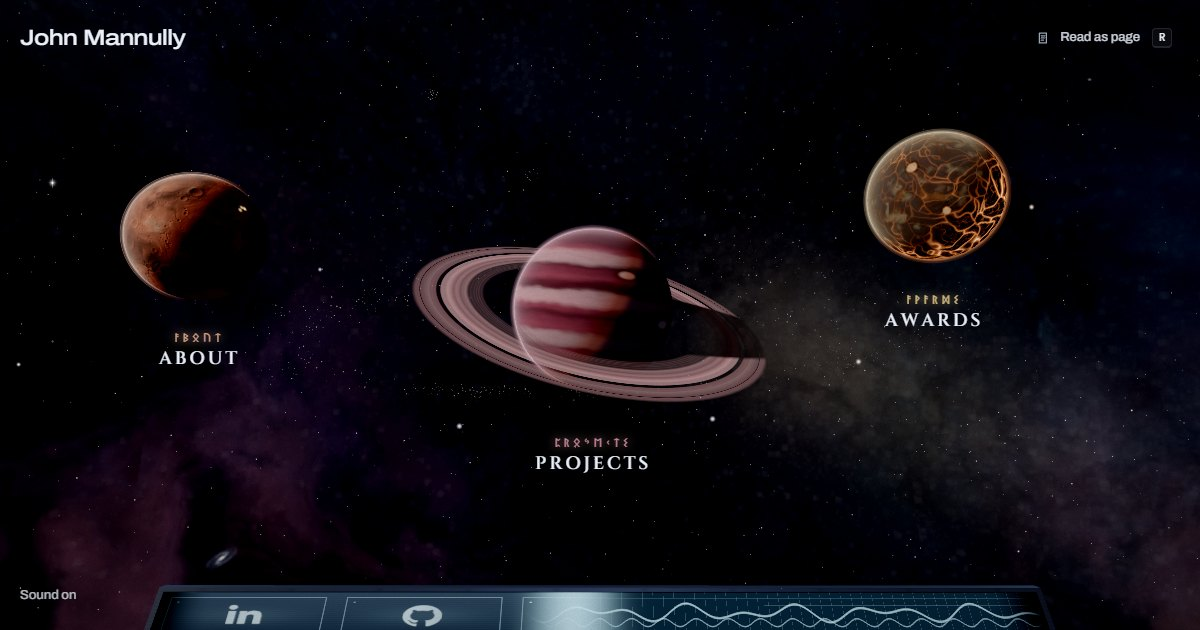
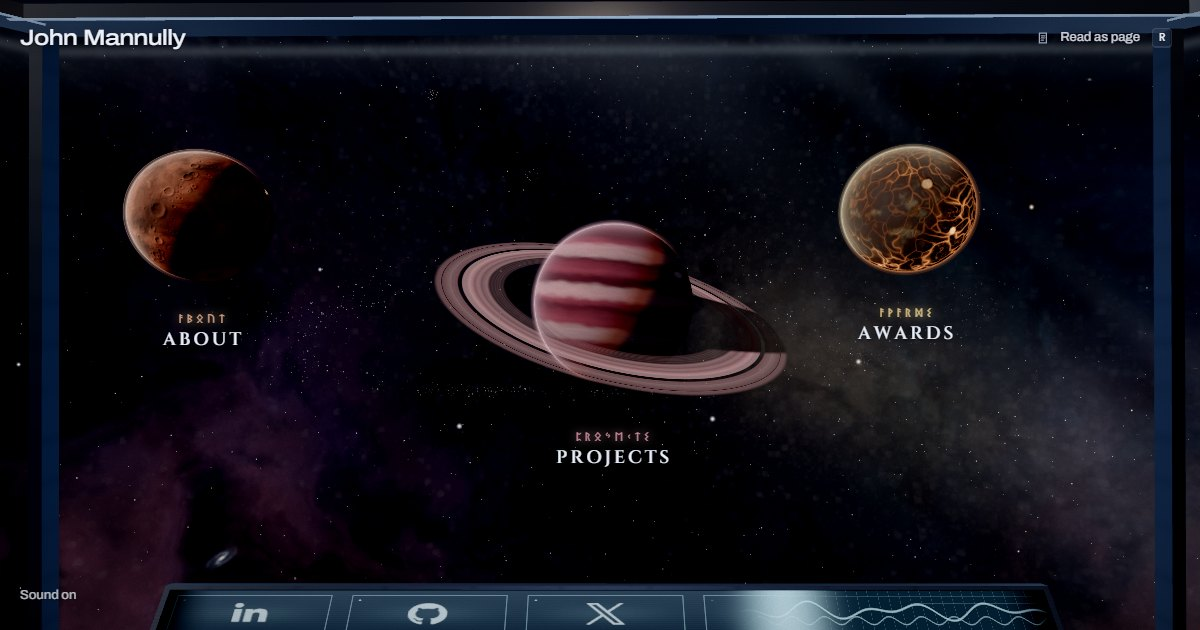
added glass bay with ceiling, mullions, side panes and glass reflections

diff --git a/src/scenes/ship/Cockpit.tsx b/src/scenes/ship/Cockpit.tsx
@@ -1,22 +1,24 @@
 import { useEffect, useMemo, useRef } from 'react';
 import { useFrame, useThree } from '@react-three/fiber';
 import * as THREE from 'three';
+import { mergeGeometries } from 'three/examples/jsm/utils/BufferGeometryUtils.js';
 import { useAppStore, type SceneMode } from '@/state/useAppStore';
 import { dashPanel, flight, warpFx } from '@/state/runtime';
 import { profile } from '@/data/content';
 import { ARRIVAL_MS, BEAM_DOWN_MS, PULL_AT } from '@/state/timing';
 import { responsiveFov } from '@/scenes/overworld/TelescopeCamera';
 import { shipSound } from '@/audio/drone';
-import { FLOOR_Y, GLASS_Z } from './shape';
+import { CEIL_Y, FLOOR_Y, GLASS_Z, PANE_X } from './shape';
 import SpeedLines from './SpeedLines';
 import ShipDetails from './ShipDetails';
 import { glassMaterial, instrumentMaterial } from './materials';
 import { cabinEnv } from './cabinEnv';
 
 /*
- * The ship around the viewer. In orbit it is the beam deck: one wall of glass
- * from the floor up, thin mullions far out to the sides, and the contact
- * console standing on a pedestal in front of it. Picking a planet charges the emitters and fires the
+ * The ship around the viewer. In orbit it is the beam deck: a glass bay, floor
+ * to ceiling, with a tall front pane, angled panes either side and walls
+ * behind them, and the contact console standing on a pedestal in front of
+ * the glass. Picking a planet charges the emitters and fires the
  * tractor beam out through the aperture to it; the viewer is pulled along the
  * beam, the deck falling away, into its light (the transition controller,
  * LaunchBeam and the veil). After the cut the rig lowers the viewer down the
@@ -210,6 +212,35 @@ const panelTexture = () => {
   return t;
 };
 
+/** The bay in plan (x, z), round the viewer from the back left to the back right */
+const BAY: [number, number][] = [
+  [-1.63, 1.6],
+  [-1.63, 0.36],
+  [-PANE_X, GLASS_Z],
+  [PANE_X, GLASS_Z],
+  [1.63, 0.36],
+  [1.63, 1.6],
+];
+/** Which sides of the bay are glass; the others are wall */
+const BAY_GLASS = [false, true, true, true, false];
+const ROOM_H = CEIL_Y - FLOOR_Y;
+const ROOM_MID = (CEIL_Y + FLOOR_Y) / 2;
+
+const sideLen = (i: number) => Math.hypot(BAY[i + 1][0] - BAY[i][0], BAY[i + 1][1] - BAY[i][1]);
+/** Lays a part built along +x, facing +z, on side i of the bay at height y, `inset` into the room. */
+const alongSide = (g: THREE.BufferGeometry, i: number, y: number, inset = 0) => {
+  const [ax, az] = BAY[i];
+  const [bx, bz] = BAY[i + 1];
+  const rot = Math.atan2(-(bz - az), bx - ax);
+  g.rotateY(rot);
+  g.translate((ax + bx) / 2 + Math.sin(rot) * inset, y, (az + bz) / 2 + Math.cos(rot) * inset);
+  return g;
+};
+const sides = (glass: boolean, make: (i: number) => THREE.BufferGeometry) =>
+  mergeGeometries(BAY_GLASS.flatMap((g, i) => (g === glass ? [make(i)] : [])), false)!;
+/** The bay's outline as a flat shape, for the floor and the ceiling */
+const bayShape = (flip: boolean) => new THREE.Shape(BAY.map(([x, z]) => new THREE.Vector2(x, flip ? -z : z)));
+
 const useCockpitParts = (env: THREE.Texture) =>
   useMemo(() => {
     const tex = panelTexture();
@@ -231,17 +262,37 @@ const useCockpitParts = (env: THREE.Texture) =>
     });
     const strip = new THREE.MeshBasicMaterial({ color: new THREE.Color('#9fc4ff').multiplyScalar(0.75), fog: false, transparent: true });
 
-    // the floor runs out to the foot of the glass
+    // floor and ceiling fill the bay's outline; their uvs are frame units
     const floorTex = tex.clone();
-    floorTex.repeat.set(34, 2.4);
+    floorTex.repeat.set(1.4, 1.4);
     const floorMat = plateMaterial(floorTex);
     floorMat.envMap = env;
     floorMat.envMapIntensity = 1.4;
-    const floor = new THREE.PlaneGeometry(24, 1.7);
-    floor.rotateX(-Math.PI / 2);
-    floor.translate(0, FLOOR_Y, GLASS_Z + 0.85);
+    const ceilMat = floorMat.clone();
+    ceilMat.color.set('#262c36');
+    const floor = new THREE.ShapeGeometry(bayShape(true)).rotateX(-Math.PI / 2).translate(0, FLOOR_Y, 0);
+    const ceiling = new THREE.ShapeGeometry(bayShape(false)).rotateX(Math.PI / 2).translate(0, CEIL_Y, 0);
+    const walls = sides(false, (i) => alongSide(new THREE.PlaneGeometry(sideLen(i), ROOM_H), i, ROOM_MID));
+    const panes = sides(true, (i) => alongSide(new THREE.PlaneGeometry(sideLen(i), ROOM_H), i, ROOM_MID, 0.002));
+    // along each pane: a sill at its foot and the ceiling's header at its head, a mullion at every corner
+    const frame = mergeGeometries(
+      [
+        sides(true, (i) => alongSide(new THREE.BoxGeometry(sideLen(i), 0.024, 0.024), i, FLOOR_Y + 0.012, 0.012)),
+        sides(true, (i) => alongSide(new THREE.BoxGeometry(sideLen(i), 0.028, 0.04), i, CEIL_Y - 0.014, 0.02)),
+        ...BAY.slice(1, -1).map(([x, z]) => new THREE.BoxGeometry(0.014, ROOM_H, 0.02).translate(x, ROOM_MID, z)),
+      ],
+      false,
+    )!;
+    // running lights on the sills and a cove light under the header
+    const lights = mergeGeometries(
+      [
+        sides(true, (i) => alongSide(new THREE.BoxGeometry(sideLen(i), 0.0018, 0.003), i, FLOOR_Y + 0.0255, 0.02)),
+        sides(true, (i) => alongSide(new THREE.BoxGeometry(sideLen(i), 0.002, 0.003), i, CEIL_Y - 0.029, 0.039)),
+      ],
+      false,
+    )!;
 
-    return { plate, trim, strip, floor, floorMat, tex, trimTex, floorTex };
+    return { plate, trim, strip, floor, ceiling, walls, panes, frame, lights, floorMat, ceilMat, tex, trimTex, floorTex };
   }, [env]);
 
 /* ---------- the rig: camera offsets, ship pose, sounds ---------- */
@@ -282,8 +333,8 @@ const Cockpit = () => {
 
   useEffect(
     () => () => {
-      for (const m of [parts.plate, parts.trim, parts.strip, parts.floorMat, glass, screen]) m.dispose();
-      parts.floor.dispose();
+      for (const m of [parts.plate, parts.trim, parts.strip, parts.floorMat, parts.ceilMat, glass, screen]) m.dispose();
+      for (const g of [parts.floor, parts.ceiling, parts.walls, parts.panes, parts.frame, parts.lights]) g.dispose();
       parts.tex.dispose();
       parts.trimTex.dispose();
       parts.floorTex.dispose();
@@ -527,23 +578,13 @@ const Cockpit = () => {
       <pointLight ref={glow} position={[0, 0.3, -0.35]} intensity={0.18} distance={1.0} decay={2} color="#ffd2a8" />
       <group ref={frameRef}>
         <mesh geometry={parts.floor} material={parts.floorMat} raycast={noRaycast} renderOrder={30} />
-        {/* the sill along the foot of the glass, with a running light that charges for the beam */}
-        <mesh material={parts.trim} position={[0, FLOOR_Y + 0.012, GLASS_Z + 0.012]} raycast={noRaycast} renderOrder={30}>
-          <boxGeometry args={[24, 0.024, 0.024]} />
-        </mesh>
-        <mesh material={parts.strip} position={[0, FLOOR_Y + 0.0255, GLASS_Z + 0.02]} raycast={noRaycast} renderOrder={31}>
-          <boxGeometry args={[24, 0.0018, 0.003]} />
-        </mesh>
-        {/* mullions between the panes, far out to the sides */}
-        {MULLIONS.map((x) => (
-          <mesh key={x} material={parts.trim} position={[x, FLOOR_Y + 2, GLASS_Z]} raycast={noRaycast} renderOrder={30}>
-            <boxGeometry args={[0.012, 4, 0.02]} />
-          </mesh>
-        ))}
+        <mesh geometry={parts.ceiling} material={parts.ceilMat} raycast={noRaycast} renderOrder={30} />
+        <mesh geometry={parts.walls} material={parts.plate} raycast={noRaycast} renderOrder={30} />
+        <mesh geometry={parts.frame} material={parts.trim} raycast={noRaycast} renderOrder={30} />
+        {/* the sills' running lights charge for the beam */}
+        <mesh geometry={parts.lights} material={parts.strip} raycast={noRaycast} renderOrder={31} />
         {/* the glass: reflections, dust, and the plasma of atmospheric entry */}
-        <mesh material={glass} position={[0, FLOOR_Y + 2, GLASS_Z + 0.005]} raycast={noRaycast} renderOrder={29}>
-          <planeGeometry args={[24, 4]} />
-        </mesh>
+        <mesh geometry={parts.panes} material={glass} raycast={noRaycast} renderOrder={29} />
         <ShipDetails />
         {/* the console: one long display along the bottom of the view, tilted toward the pilot */}
         <group position={[0, -0.46, -0.49]} rotation={[-0.32, 0, 0]}>
@@ -560,10 +601,8 @@ const Cockpit = () => {
   );
 };
 
-/* ---------- emitter cells and colours ---------- */
+/* ---------- colours ---------- */
 
-/** Mullions between the panes, in frame units: past the edges of the view at rest */
-const MULLIONS = [-2.6, -1.18, 1.18, 2.6];
 /** The sill's running light at rest; picking a planet charges it for the beam */
 const STRIP_C = new THREE.Color('#9fc4ff').multiplyScalar(0.75);
 const STRIP_HOT = new THREE.Color('#d4ecff');

diff --git a/src/scenes/ship/materials.ts b/src/scenes/ship/materials.ts
@@ -2,9 +2,11 @@ import * as THREE from 'three';
 import { FRAME_DEPTH } from './shape';
 
 /**
- * The glass wall: almost invisible. Two soft reflection bands and a few specks
- * of dust. On atmospheric entry
- * (uHeat) plasma streams outward from the centre and burns along the rim.
+ * The glass: clear in the middle, but it reads as glass. Two soft sheen bands,
+ * the cove light along the ceiling mirrored near the top, the floor's glow at
+ * its foot, specks of dust, and a cold reflection that grows at grazing angles,
+ * so the side panes catch the light. On atmospheric entry (uHeat) plasma
+ * streams outward from the centre and burns along the rim.
  */
 export const glassMaterial = () =>
   new THREE.ShaderMaterial({
@@ -19,9 +21,14 @@ export const glassMaterial = () =>
     },
     vertexShader: /* glsl */ `
       varying vec2 vN;
+      varying vec3 vPosV;
+      varying vec3 vNormalV;
       void main() {
         vN = position.xy / ${FRAME_DEPTH.toFixed(3)};
-        gl_Position = projectionMatrix * modelViewMatrix * vec4(position, 1.0);
+        vec4 mv = modelViewMatrix * vec4(position, 1.0);
+        vPosV = mv.xyz;
+        vNormalV = normalMatrix * normal;
+        gl_Position = projectionMatrix * mv;
       }
     `,
     fragmentShader: /* glsl */ `
@@ -29,6 +36,8 @@ export const glassMaterial = () =>
       uniform float uHeat;
       uniform vec3 uHeatColor;
       varying vec2 vN;
+      varying vec3 vPosV;
+      varying vec3 vNormalV;
 
       float hash(vec2 p) { return fract(sin(dot(p, vec2(127.1, 311.7))) * 43758.5453); }
       float noise(vec2 p) {
@@ -40,16 +49,26 @@ export const glassMaterial = () =>
 
       void main() {
         vec2 n = vN;
+        // stronger away from the middle, so the planets stay clean
+        float off = 0.3 + 0.7 * smoothstep(0.35, 1.05, length(n * vec2(0.85, 1.0)));
         // reflections of the cabin: two soft diagonal bands
         float d = dot(n, normalize(vec2(1.0, 0.62)));
         // squared by hand: pow() of a negative base is NaN on Metal (Safari, every Mac browser)
-        float r1 = (d - 0.42) / 0.11;
-        float r2 = (d - 0.62) / 0.035;
-        float refl = exp(-r1 * r1) * 0.006 + exp(-r2 * r2) * 0.005;
-        refl *= smoothstep(-0.2, 0.6, n.y + 0.3);
+        float r1 = (d - 0.5) / 0.16;
+        float r2 = (d - 0.78) / 0.045;
+        float refl = (exp(-r1 * r1) * 0.014 + exp(-r2 * r2) * 0.01) * off;
+        // the cove light under the ceiling's header, mirrored near the top of the glass
+        float cy = (n.y - 0.9) / 0.018;
+        float cg = (n.y - 0.87) / 0.08;
+        refl += exp(-cy * cy) * 0.03 + exp(-cg * cg) * 0.008;
+        // the floor's glow at the foot of the glass
+        refl += smoothstep(-1.05, -1.32, n.y) * 0.022;
         // dust
         float dust = step(0.9975, hash(floor(n * 260.0))) * 0.02 * noise(n * 6.0);
         vec3 col = vec3(0.75, 0.85, 1.0) * (refl + dust);
+        // a cold sheen that grows at grazing angles
+        float facing = clamp(1.0 - abs(dot(normalize(vNormalV), normalize(-vPosV))), 0.0, 1.0);
+        col += vec3(0.55, 0.68, 0.95) * facing * facing * facing * 0.09;
 
         // entry plasma: streaks rushing outward, brightest at the rim
         if (uHeat > 0.001) {

diff --git a/index.html b/index.html
@@ -564,8 +564,9 @@
         };
         requestAnimationFrame(function () { setTimeout(bake, 0); });
 
-        // the deck as the 3D cockpit draws it at rest (Cockpit.tsx): all glass, so only the console shows;
-        // outlines in frame units, where x / 0.6 and y / 0.6 are screen coordinates (-1..1)
+        // the deck as the 3D cockpit draws it at rest (Cockpit.tsx and shape.ts): glass framed by the ceiling's
+        // header and two mullions, the console in front; outlines in frame units, where x / 0.6 and y / 0.6
+        // are screen coordinates (-1..1)
         var deck = boot.querySelector('.deck');
         var D = 0.6;
         var grow = function (pts, d) {
@@ -598,6 +599,19 @@
               pts.forEach(function (q, i) { if (i) g.lineTo(X(q[0]), Y(q[1])); else g.moveTo(X(q[0]), Y(q[1])); });
               g.closePath();
             };
+
+            // the ceiling's header along the top, its cove light on the lower edge, and the front pane's mullions
+            var NX = function (n) { return (0.5 + 0.5 * n) * W; };
+            var NY = function (n) { return (0.5 - 0.5 * n) * H; };
+            var head = g.createLinearGradient(0, NY(1), 0, NY(0.953));
+            head.addColorStop(0, '#0a0d13');
+            head.addColorStop(1, '#1f2530');
+            g.fillStyle = head;
+            g.fillRect(-O, -O, W + O * 2, NY(0.953) + O);
+            g.fillStyle = 'rgba(150, 190, 255, 0.7)';
+            g.fillRect(-O, NY(0.953) - 1, W + O * 2, 1.5);
+            g.fillStyle = '#1b2a44';
+            for (var ms = -1; ms <= 1; ms += 2) g.fillRect(NX(ms * 0.9375) - (0.011 * W) / 2, NY(0.953), 0.011 * W, H + O);
 
             // the console along the bottom of the view
             var cl = function (x, y) { return [x, y]; };

diff --git a/src/scenes/ship/shape.ts b/src/scenes/ship/shape.ts
@@ -2,13 +2,17 @@
 export const FRAME_DEPTH = 0.6;
 
 /**
- * The deck is one sheet of glass from the floor up past the top of the view:
- * nothing but the console stands between the viewer and space. The glass and
- * the floor sit just past the edges of the view at rest, seen when looking
- * down or about.
+ * The deck is a glass bay: one tall front pane filling the view, angled panes
+ * either side of it, floor to ceiling, and only the console standing between
+ * the viewer and space. At rest the front pane's mullions frame the view just
+ * inside its edges and the ceiling's header runs along the top; the floor
+ * shows when looking down.
  */
 export const GLASS_Z = -FRAME_DEPTH - 0.04;
 export const FLOOR_Y = -0.8;
+export const CEIL_Y = 0.6;
+/** Half the width of the front pane */
+export const PANE_X = 0.6;
 
 /** Fraction of the lens the overworld layout may use, so planets clear the edges and the console. */
 export const WINDOW_FIT = 0.95;

diff --git a/README.md b/README.md
@@ -138,7 +138,7 @@ flowchart LR
 
 Scene modes always move in this order:
 
-1. `overworld`: the view from the ship's observation deck, where the site opens. The camera turns inside a fixed cockpit that is one wall of glass from the floor up, with thin mullions far out to the sides, a sill whose running light charges when a planet is picked, and the console standing on a pedestal along the bottom edge; looking down shows the floor and the pedestal's foot. The planet layout is fitted to 95% of the lens so every planet clears the edges and the console. Hovering a planet or its name highlights it; clicking either (or pressing its number) calls `travelTo`. The names are buttons Tab can reach, and on small portrait screens a name may sit over the edge of a neighbouring planet rather than hide, so every planet stays labelled. The sky is baked once into a cube map: a faint blue floor, the galactic band with star clouds and dust lanes, and four emission nebulae (warped fbm gas, bright knots, dark dust). Over it sit 9000 stars (the brightest with diffraction spikes), three distant spiral galaxies (additive shader planes 170 units out), and a meteor that streaks across the window every few seconds (off with reduced motion). Planets are lit with a soft wrapped terminator, a faint starlight fill on the night side and a bright scattering limb. The console along the bottom of the view holds the contact keys: one key per entry in `profile.links` (LinkedIn, GitHub, X, the resume PDF on Google Drive and Email), each shown as the link's logo. In orbit the console is drawn as a row of key faces (an inset frame, a status light and the logo per cell, the hovered or focused cell glowing) and in flight as a live instrument; switching to the keys, a bright edge sweeps across it over 1.6 s with the faces behind it and the logos a beat later, and back to the instrument in 0.5 s. The logos are painted on the face itself, so they stay fixed to the dash as the view turns: `DashControls` renders the icons once, draws them into a strip (`dashPanel.logos`) and the cockpit uses it as the face's texture. The links themselves are invisible keys laid over the cells: the cockpit projects the face's corners to the screen each frame (`dashPanel.quad`) and each key is clipped to its cell's exact outline. The top bar holds only Read as page; Sound sits bottom left.
+1. `overworld`: the view from the ship's observation deck, where the site opens. The camera turns inside a fixed cockpit shaped as a glass bay: a tall front pane filling the view between two mullions, angled panes either side of it and walls behind those, floor to ceiling, with the ceiling's header and its cove light along the top edge, sills whose running lights charge when a planet is picked, and the console standing on a pedestal along the bottom edge. The glass shows itself only off the middle: two soft sheen bands, the cove light mirrored near its top, the floor's glow at its foot and a cold reflection that grows at grazing angles, so the side panes catch the light. Looking down shows the floor and the pedestal's foot. The planet layout is fitted to 95% of the lens so every planet clears the edges and the console. Hovering a planet or its name highlights it; clicking either (or pressing its number) calls `travelTo`. The names are buttons Tab can reach, and on small portrait screens a name may sit over the edge of a neighbouring planet rather than hide, so every planet stays labelled. The sky is baked once into a cube map: a faint blue floor, the galactic band with star clouds and dust lanes, and four emission nebulae (warped fbm gas, bright knots, dark dust). Over it sit 9000 stars (the brightest with diffraction spikes), three distant spiral galaxies (additive shader planes 170 units out), and a meteor that streaks across the window every few seconds (off with reduced motion). Planets are lit with a soft wrapped terminator, a faint starlight fill on the night side and a bright scattering limb. The console along the bottom of the view holds the contact keys: one key per entry in `profile.links` (LinkedIn, GitHub, X, the resume PDF on Google Drive and Email), each shown as the link's logo. In orbit the console is drawn as a row of key faces (an inset frame, a status light and the logo per cell, the hovered or focused cell glowing) and in flight as a live instrument; switching to the keys, a bright edge sweeps across it over 1.6 s with the faces behind it and the logos a beat later, and back to the instrument in 0.5 s. The logos are painted on the face itself, so they stay fixed to the dash as the view turns: `DashControls` renders the icons once, draws them into a strip (`dashPanel.logos`) and the cockpit uses it as the face's texture. The links themselves are invisible keys laid over the cells: the cockpit projects the face's corners to the screen each frame (`dashPanel.quad`) and each key is clipped to its cell's exact outline. The top bar holds only Read as page; Sound sits bottom left.
 2. `transitioning-in`: the ship comes round onto the planet and plunges at it. The turn eases in and out over 650 ms and follows the planet on its orbit, and the deck keeps its place around the eye with a slight lag (so a planet at the edge of the window is never snapped to). The lens narrows 4 degrees as it locks on. From 150 ms the ship accelerates toward the planet and stops 1.4 radii from its centre, so the planet grows until it fills the window. The lens opens 9 degrees with the speed, speed lines and a rumble come with it, and the planet's air glows faintly on the canopy rim. From 930 ms the view crossfades over 380 ms into that planet's sky, and the mode switches at 1350 ms under full cover.
 3. `planet`: the light clears over 700 ms while the viewer is lowered down the beam from the mothership. The rig places the eye along the line from the spawn to the ship's belly at the exit's pull curve run backwards (about 84 units up the beam at the start, slowing to a crawl over 1500 ms), looking up at the ship with the roll unwinding, then floats the last half unit onto the ground while the view comes down to the field ahead. PlanetCamera publishes the spawn as the beam's foot, so the beam lands where the viewer stands, and it fades out by 2200 ms, when walking starts. The landing clock runs on frame time capped at 100 ms per frame, so a first-frame stall on shader compiles cannot skip the landing. The mothership cruises prow first around a wide loop overhead (95 by 55 units, about 240 up and 165 ahead, about 2.5 units a second), out of view at rest and in view once you look up past about 40 degrees. On desktop the cursor is locked for mouse look (released whenever the reader opens). Walking near or looking at a monument focuses it. A monument chosen by a click, the HUD or a glide stays focused until the viewer moves a unit away, even when the glide ends nearer a neighbour (as it does across the temple aisle). On desktop its orbiting panels (dark, near-solid plates that read from across the field) fan out into screens once the viewer is within 7.5 units; on phones and portrait tablets the bottom sheet opens instead, and on screens under 500px tall (landscape phones) a side panel, since the screens would shrink past reading size there.
 4. `transitioning-out`: the viewer is beamed back up. The camera turns to look at the mothership's belly (700 ms) while a tractor beam fades in (an additive tube of rising rings and streaks, with a pulsing pad at the feet); from 650 ms the viewer floats off the ground and is pulled along the beam with an accelerating, slowly rolling climb. The veil flashes the beam's light from 1550 ms and the mode returns to `overworld` at 2000 ms, so the lobby comes up out of the light. The cockpit stays hidden for the whole exit. Planet-to-planet travel is chained: the beam veil covers at 1350 ms, the mode switches at 1750 ms and the next landing happens 450 ms later under the veil.
@@ -229,7 +229,7 @@ Guarantees and limits:
 - Site basics: the tab title follows the view ("Iris · Projects · yo its john", "Read · yo its john"); `public/` has a themed `404.html`, `robots.txt`, `sitemap.xml`, `site.webmanifest` with 192 and 512 px icons, and a 32 px PNG favicon beside the SVG one. Vercel Web Analytics (cookieless page views) loads on the deployed site only. Nothing else is collected, and contact is by mail links, so there is no privacy policy to show.
 - The URL hash mirrors the view (`#/projects/proj-iris`, `#/read/awards`), so any planet, monument or reader section can be linked, and the browser Back button moves between planets.
 - The render loop pauses while the reader is open, and the music fades out over about a second; once it is silent the audio clock stops, and closing the reader wakes it and fades the music back in. The reader is a docs-style page on pure black: a header with the name, a Resume button and Close, a left section nav (tabs with a sky-blue underline on phones), a 660px content column in Inter with grey body text and Commit Mono labels, chips and square buttons, and an "On this page" list for the section in view (wide screens only). Its styles live in `src/ui/reader.css` under `.docs`, so the screens on the planets keep their own look.
-- The site opens on a terminal screen drawn by `index.html` before any script runs, seen from the observation deck: the console is painted to a canvas by the inline script at the spot the 3D cockpit draws it (everything else is glass), so the viewer is in the ship from the first frame and the 3D deck lines up under the painting. The window is a terminal screen (faint scanlines and glow) whose lines, in the system's monospace font, type or print one after another over about four seconds: a deep-space scan, "NEW STAR SYSTEM DETECTED: MANNULLY", a course set, "DESTINATION SET.", and a blinking "press any key to launch" ("tap to launch" on touch screens). It is plain text and CSS, so it shows with the page. Any key or tap launches: the terminal clears behind a burst of light, and hyperspace (a deep blue and violet tunnel with two sets of ribs turning opposite ways, a far field of coloured streaks with fading tails in three copies zooming past, a near field rushing by faster, and a pulsing core; the streak images are drawn on a CPU canvas in small idle slices and encoded off the main thread, since they are only seen after the launch) fills the window and runs the whole jump while the whole view sways a few pixels, like the shudder after the drop, so nothing that loads later can cut into it. That gesture is also what browsers need before a page may play sound, so the inline script makes the audio context inside it (`window.__bootAudio`) and `drone.ts` builds on it, so the warp is heard from the start even though the app only starts after the press. A link to a planet or the reader, or reduced motion, skips the launch: the app starts at once and the loader fades when it is ready. Hyperspace animates only transform and opacity, so the compositor runs it smoothly while the app loads underneath. The loader takes every click and tap while it is up, so nothing under it can be pressed.
+- The site opens on a terminal screen drawn by `index.html` before any script runs, seen from the observation deck: the ceiling's header, the two mullions and the console are painted to a canvas by the inline script where the 3D cockpit draws them, so the viewer is in the ship from the first frame and the 3D deck lines up under the painting. The window is a terminal screen (faint scanlines and glow) whose lines, in the system's monospace font, type or print one after another over about four seconds: a deep-space scan, "NEW STAR SYSTEM DETECTED: MANNULLY", a course set, "DESTINATION SET.", and a blinking "press any key to launch" ("tap to launch" on touch screens). It is plain text and CSS, so it shows with the page. Any key or tap launches: the terminal clears behind a burst of light, and hyperspace (a deep blue and violet tunnel with two sets of ribs turning opposite ways, a far field of coloured streaks with fading tails in three copies zooming past, a near field rushing by faster, and a pulsing core; the streak images are drawn on a CPU canvas in small idle slices and encoded off the main thread, since they are only seen after the launch) fills the window and runs the whole jump while the whole view sways a few pixels, like the shudder after the drop, so nothing that loads later can cut into it. That gesture is also what browsers need before a page may play sound, so the inline script makes the audio context inside it (`window.__bootAudio`) and `drone.ts` builds on it, so the warp is heard from the start even though the app only starts after the press. A link to a planet or the reader, or reduced motion, skips the launch: the app starts at once and the loader fades when it is ready. Hyperspace animates only transform and opacity, so the compositor runs it smoothly while the app loads underneath. The loader takes every click and tap while it is up, so nothing under it can be pressed.
 - `Warp` (in the overworld scene, after `TelescopeCamera` and before the cockpit rig) keeps the time of the arrival. The system renders under the loader all along, so it is compiled and drawn before anyone sees it. Once the visitor has launched and `Preload` reports everything ready (never later than 90 s after the launch, a guard against a hung driver or fetch), hyperspace runs on for at least 500 ms, and the whole jump lasts at least 2.6 s from the launch so a cached visit still sees it; a click, tap or key drops out within 450 ms. Planets ignore the pointer during the arrival, so that click never picks a planet. Then the drive spools for 560 ms (`spoolBoot`: the loader's hyperspace surges, shakes and goes white, the drop sound plays), and under the full flash the loader's picture is removed (`endBoot`): as the flash clears over 520 ms the deck and the system are there, the lens snaps 4 degrees narrow and settles over 1.1 s while the deck's shudder dies away (`warpFx.lens`, `warpFx.shake`, both zeroed once it settles), and 450 ms after the flash the HUD fades up over 1 s. Then the planet names fade in one by one (500 ms in, 220 ms apart, over 1.4 s each) and the console sweeps from its instrument chart into the contact keys left to right over 1.6 s. The store's `intro` flag hides the HUD until then; keys do nothing, and travel asked for meanwhile (a link, Back) is queued and starts as the arrival ends.
 - The warp plays only on a plain visit to the lobby. A link to a planet or the reader, reduced motion and the no-WebGL page get the loader alone: the display reaches 100%, reads "Arrived", and fades.
 - Sound: a held hyperspace roar (a rumble, a sweeping rush and a beating drive) and a drop-out cue (a rising whine into a deep boom and a falling rush). The warp sounds are synthesized in Web Audio, so there is nothing to download. The key or tap that launches unlocks audio, so the roar plays from the first frame of hyperspace.
